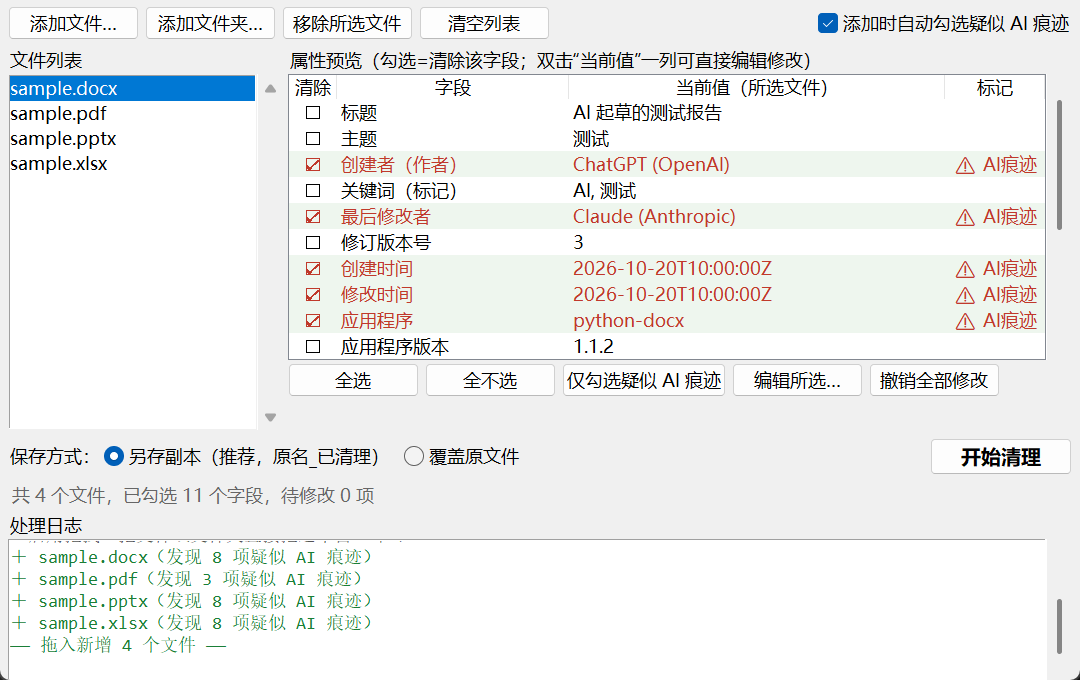
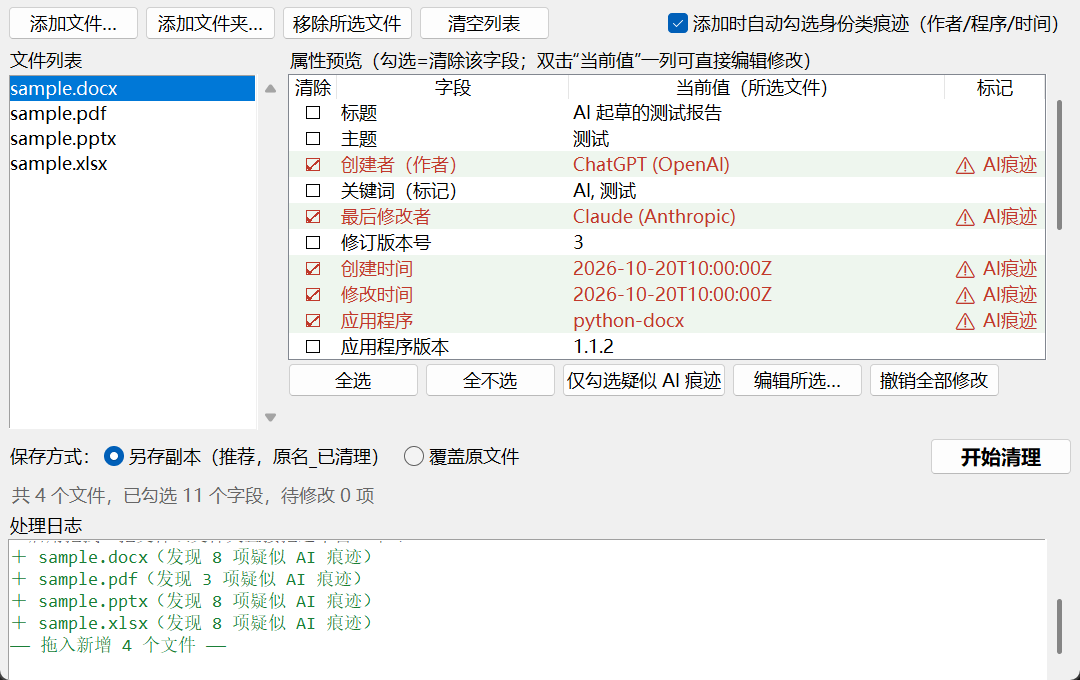
更名突出 AI 痕迹清理卖点：文档属性清理工具 → 文档AI属性清理工具，仓库/doc-meta-cleaner → ai-metadata-cleaner，exe DocMetaCleaner → AIMetadataCleaner；窗口标题、CLI 描述与版本输出、exe 版本信息、启动器 bat、两份 README（标题/徽章/下载说明/项目树）、release.yml（资产名/冒烟窗口匹配/源码包前缀）同步更新，重新生成截图与动图；旧仓库地址 GitHub 自动重定向

Changed region(s): [[0.6111, 0.0, 1.0, 0.0618]]

diff --git a/doc_meta_cli.py b/doc_meta_cli.py
@@ -1,5 +1,5 @@
 # -*- coding: utf-8 -*-
-"""doc-meta-cleaner 命令行入口：scan / clean / set。
+"""ai-metadata-cleaner 命令行入口：scan / clean / set。
 
 与 doc_meta_cleaner.py（核心逻辑 + 图形界面）分离：
 本文件只做参数解析与结果展示，所有能力都复用主模块的函数，
@@ -285,11 +285,11 @@ def print_fields():
 def build_parser():
     parser = argparse.ArgumentParser(
         prog='doc_meta_cli',
-        description='文档属性清理工具（命令行版）：扫描、清理、修改 Word/Excel/PPT/PDF 的属性（元数据）',
+        description='文档AI属性清理工具（命令行版）：扫描、清理、修改 Word/Excel/PPT/PDF 的属性（元数据）',
         epilog='示例：python doc_meta_cli.py clean D:\\资料\\   '
                '# 递归清理目录内文档的疑似 AI 痕迹，另存副本')
     parser.add_argument('--version', action='version',
-                        version='doc-meta-cleaner ' + __version__ + '（MIT License）')
+                        version='ai-metadata-cleaner ' + __version__ + '（MIT License）')
     parser.add_argument('--list-fields', action='store_true',
                         help='列出全部可操作的字段后退出')
     sub = parser.add_subparsers(dest='command', metavar='{scan,clean,set}')

diff --git a/doc_meta_cleaner.py b/doc_meta_cleaner.py
@@ -1,11 +1,11 @@
 # -*- coding: utf-8 -*-
 """
-文档属性清理工具（Document Metadata Cleaner）
+文档AI属性清理工具（AI Metadata Cleaner）
 ================================================
 删除 Word / Excel / PPT / PDF 文档属性（元数据）中泄露生成来源的信息，
 重点针对 AI 生成留下的痕迹（作者名为 ChatGPT/Claude、生成程序为脚本库等）。
 
-用法：双击「文档属性清理工具.bat」启动，或 `python doc_meta_cleaner.py`。
+用法：双击「文档AI属性清理工具.bat」启动，或 `python doc_meta_cleaner.py`。
 
 流程：添加文件 -> 预览属性并勾选要清除的字段（疑似 AI 痕迹自动勾选）
       -> 选择「另存副本 / 覆盖原文件」-> 开始清理。
@@ -986,7 +986,7 @@ _Base = TkinterDnD.Tk if TkinterDnD else tk.Tk
 class CleanerApp(_Base):
     def __init__(self):
         super().__init__()
-        self.title('文档属性清理工具 — 去除 AI 生成痕迹')
+        self.title('文档AI属性清理工具')
         self.geometry('1080x680')
         self.minsize(880, 560)
 

diff --git a/tests/_make_bat.py b/tests/_make_bat.py
@@ -8,7 +8,7 @@ ROOT = os.path.dirname(HERE)
 src = open(os.path.join(HERE, '_bat_template.txt'), encoding='utf-8').read()
 src = src.replace('\r\n', '\n').replace('\n', '\r\n')
 data = src.encode('gbk')
-bat = os.path.join(ROOT, '文档属性清理工具.bat')
+bat = os.path.join(ROOT, '文档AI属性清理工具.bat')
 with open(bat, 'wb') as f:
     f.write(data)
 

diff --git a/tests/cli_smoke.py b/tests/cli_smoke.py
@@ -39,7 +39,7 @@ os.makedirs(work)
 doc = shutil.copy(sample, work)
 
 r = run('--version')
-check('版本号', r.returncode == 0 and 'doc-meta-cleaner' in r.stdout,
+check('版本号', r.returncode == 0 and 'ai-metadata-cleaner' in r.stdout,
       (r.returncode, r.stdout, r.stderr))
 
 r = run('scan', doc)

diff --git a/README.en.md b/README.en.md
@@ -2,18 +2,18 @@
 
 [简体中文](README.md) | English
 
-# 🧹 DocMetaCleaner
+# 🧹 AI Metadata Cleaner
 
 **One click to clear or edit the properties (metadata) of Word / Excel / PPT / PDF files — wipe AI-generated traces**
 
 🔒 **100% local processing** — your files never leave your computer
 
-[![Release](https://img.shields.io/github/v/release/yuujinng/doc-meta-cleaner?style=flat-square)](../../releases)
-[![下载量](https://img.shields.io/github/downloads/yuujinng/doc-meta-cleaner/total?style=flat-square&label=%E4%B8%8B%E8%BD%BD)](../../releases)
-[![CI](https://github.com/yuujinng/doc-meta-cleaner/actions/workflows/ci.yml/badge.svg)](https://github.com/yuujinng/doc-meta-cleaner/actions/workflows/ci.yml)
-[![License: MIT](https://img.shields.io/github/license/yuujinng/doc-meta-cleaner?style=flat-square)](LICENSE)
+[![Release](https://img.shields.io/github/v/release/yuujinng/ai-metadata-cleaner?style=flat-square)](../../releases)
+[![下载量](https://img.shields.io/github/downloads/yuujinng/ai-metadata-cleaner/total?style=flat-square&label=%E4%B8%8B%E8%BD%BD)](../../releases)
+[![CI](https://github.com/yuujinng/ai-metadata-cleaner/actions/workflows/ci.yml/badge.svg)](https://github.com/yuujinng/ai-metadata-cleaner/actions/workflows/ci.yml)
+[![License: MIT](https://img.shields.io/github/license/yuujinng/ai-metadata-cleaner?style=flat-square)](LICENSE)
 [![Python](https://img.shields.io/badge/Python-3.11%2B-3776AB?style=flat-square&logo=python&logoColor=white)](https://www.python.org/)
-[![Platform](https://img.shields.io/badge/平台-Windows%2010%2F11-0078D6?style=flat-square&logo=windows11&logoColor=white)](https://github.com/yuujinng/doc-meta-cleaner#-quick-start)
+[![Platform](https://img.shields.io/badge/平台-Windows%2010%2F11-0078D6?style=flat-square&logo=windows11&logoColor=white)](https://github.com/yuujinng/ai-metadata-cleaner#-quick-start)
 
 <img src="docs/screenshot.png" alt="App preview: suspected AI traces highlighted in red and pre-checked" width="720"/>
 
@@ -55,8 +55,8 @@
 
 **Option 1: download the exe (recommended, no Python needed)**
 
-1. Open the [Releases](../../releases) page and download **DocMetaCleaner.exe** (~15 MB) from the latest release;
-2. Double-click to run. **No Python installation required** — everything is bundled, and it works offline. The product name in the file properties remains 「文档属性清理工具」.
+1. Open the [Releases](../../releases) page and download **AIMetadataCleaner.exe** (~15 MB) from the latest release;
+2. Double-click to run. **No Python installation required** — everything is bundled, and it works offline. The exe file name is the ASCII `AIMetadataCleaner.exe` (for Release-asset compatibility); the file description in its properties stays Chinese.
 
 > Your browser or Windows SmartScreen may warn about an "unknown publisher": the exe is not code-signed. Click "More info → Run anyway". Some antivirus tools may flag it (a common false positive for PyInstaller binaries) — add it to your trust list. The SHA256 checksum of the exe is listed on the Release page if you want to verify integrity.
 
@@ -64,15 +64,15 @@
 
 1. Install [Python 3.11+](https://www.python.org/downloads/) (check *"Add Python to PATH"*)
 2. Download this repository (*Code → Download ZIP*, or `git clone`)
-3. Double-click **文档属性清理工具.bat** (the double-click launcher)
+3. Double-click **文档AI属性清理工具.bat** (the double-click launcher)
 
 On first launch it installs `pypdf` and `tkinterdnd2` automatically (once only). When the status shows 「PDF 支持：已就绪」 (PDF support: ready), everything is fine. A black console window stays next to the GUI while it runs and exits when you close the window.
 
 **Option 3: command line**
 
 ```bash
-git clone https://github.com/yuujinng/doc-meta-cleaner.git
-cd doc-meta-cleaner
+git clone https://github.com/yuujinng/ai-metadata-cleaner.git
+cd ai-metadata-cleaner
 pip install -r requirements.txt
 python doc_meta_cleaner.py
 ```
@@ -152,12 +152,12 @@ The legacy binary `.doc/.xls/.ppt` formats are not supported yet.
 ## 🗂 Project layout
 
 ```
-doc-meta-cleaner/
+ai-metadata-cleaner/
 ├── doc_meta_cleaner.py       Core logic + GUI
 ├── doc_meta_cli.py           CLI entry (scan / clean / set)
 ├── doc_meta_cleaner.spec     PyInstaller spec (builds the Windows exe)
 ├── README.en.md              English documentation
-├── 文档属性清理工具.bat        Double-click launcher for running from source
+├── 文档AI属性清理工具.bat        Double-click launcher for running from source
 ├── 示例文件/                  4 demo documents with AI traces
 ├── docs/
 │   ├── screenshot.png        README screenshot
@@ -188,7 +188,7 @@ pyinstaller --noconfirm doc_meta_cleaner.spec   # Build a single-file exe locall
 
 Releases: push a `vX.Y.Z` tag and the Release workflow runs the full test suite, builds the Windows single-file exe, and publishes it with the source zip as a GitHub Release.
 
-> Note: the double-click launcher `文档属性清理工具.bat` must be saved as ASCII + CRLF — do not edit it and re-save as UTF-8 in an editor. If it breaks, regenerate it with `python tests/_make_bat.py`.
+> Note: the double-click launcher `文档AI属性清理工具.bat` must be saved as ASCII + CRLF — do not edit it and re-save as UTF-8 in an editor. If it breaks, regenerate it with `python tests/_make_bat.py`.
 
 ## 📄 License
 
